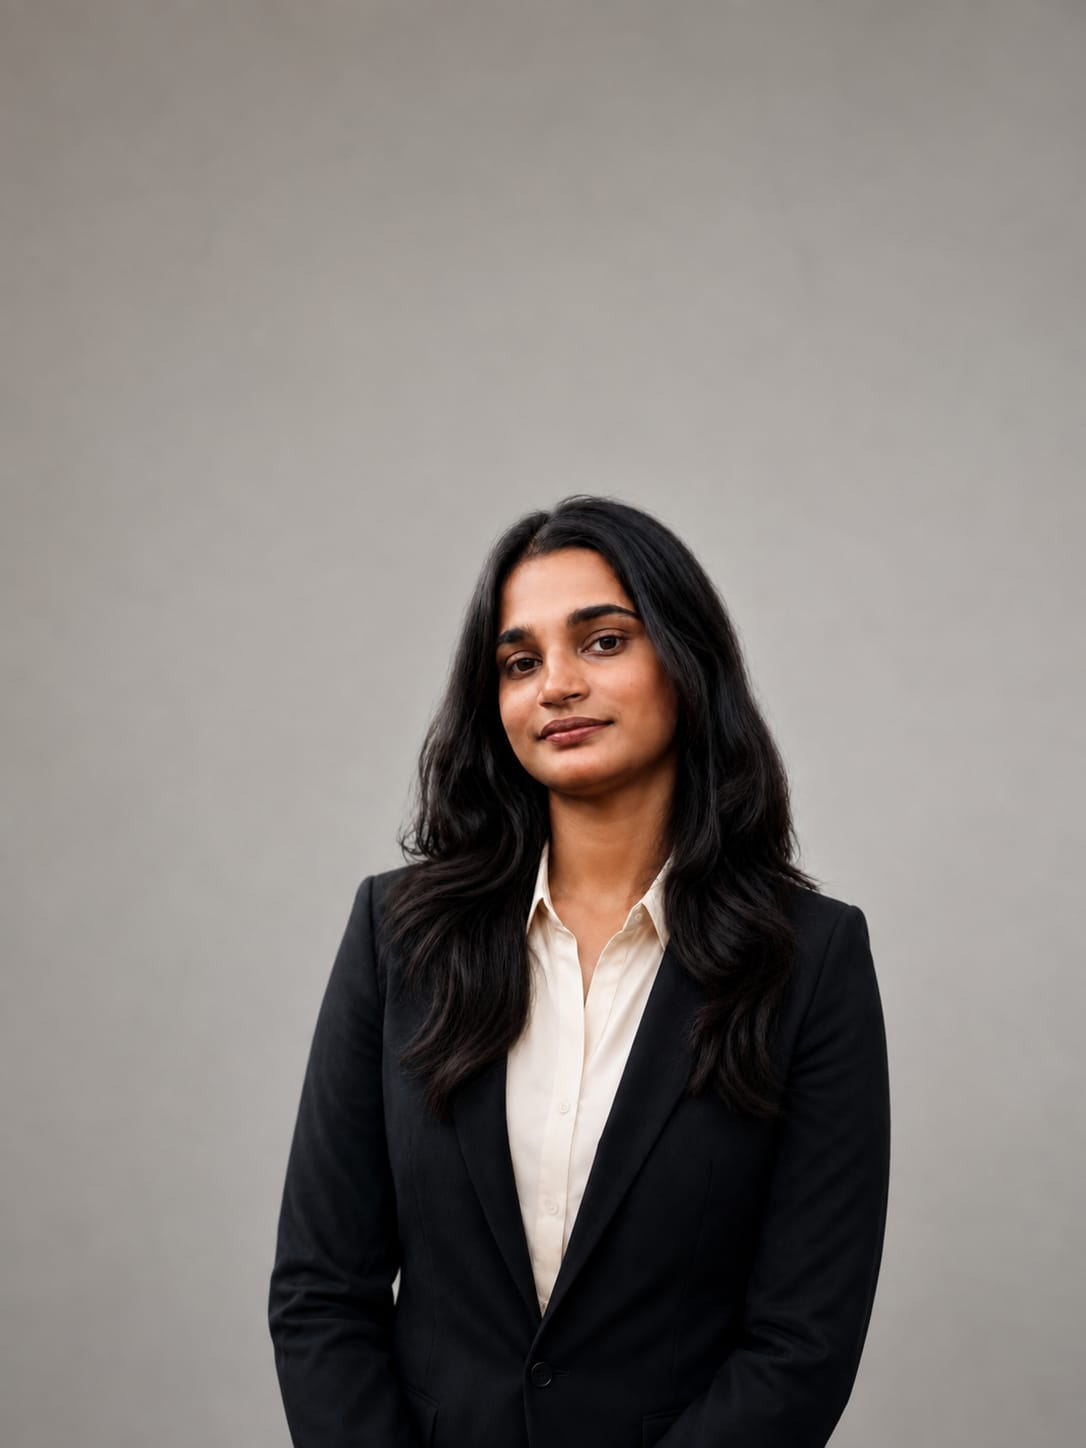
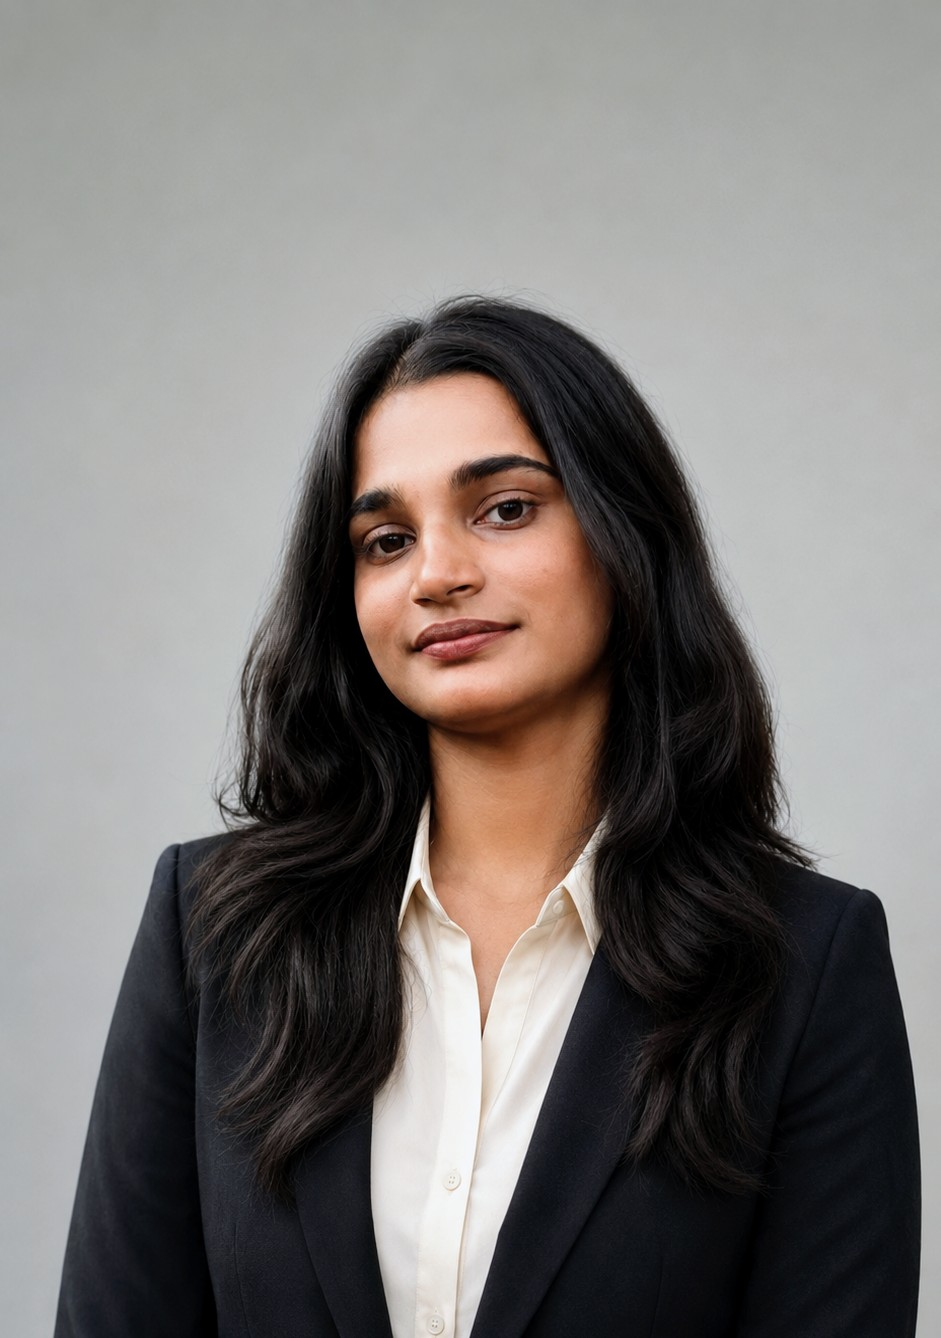
Update portfolio

diff --git a/app/page.tsx b/app/page.tsx
@@ -10,7 +10,7 @@ export default function Home() {
         style={{
           backgroundImage: "url('/image.jpeg')",
           backgroundSize: "120% auto",
-          backgroundPosition: "0% 50%",
+          backgroundPosition: "0% 40 %",
         }}
       />
 
